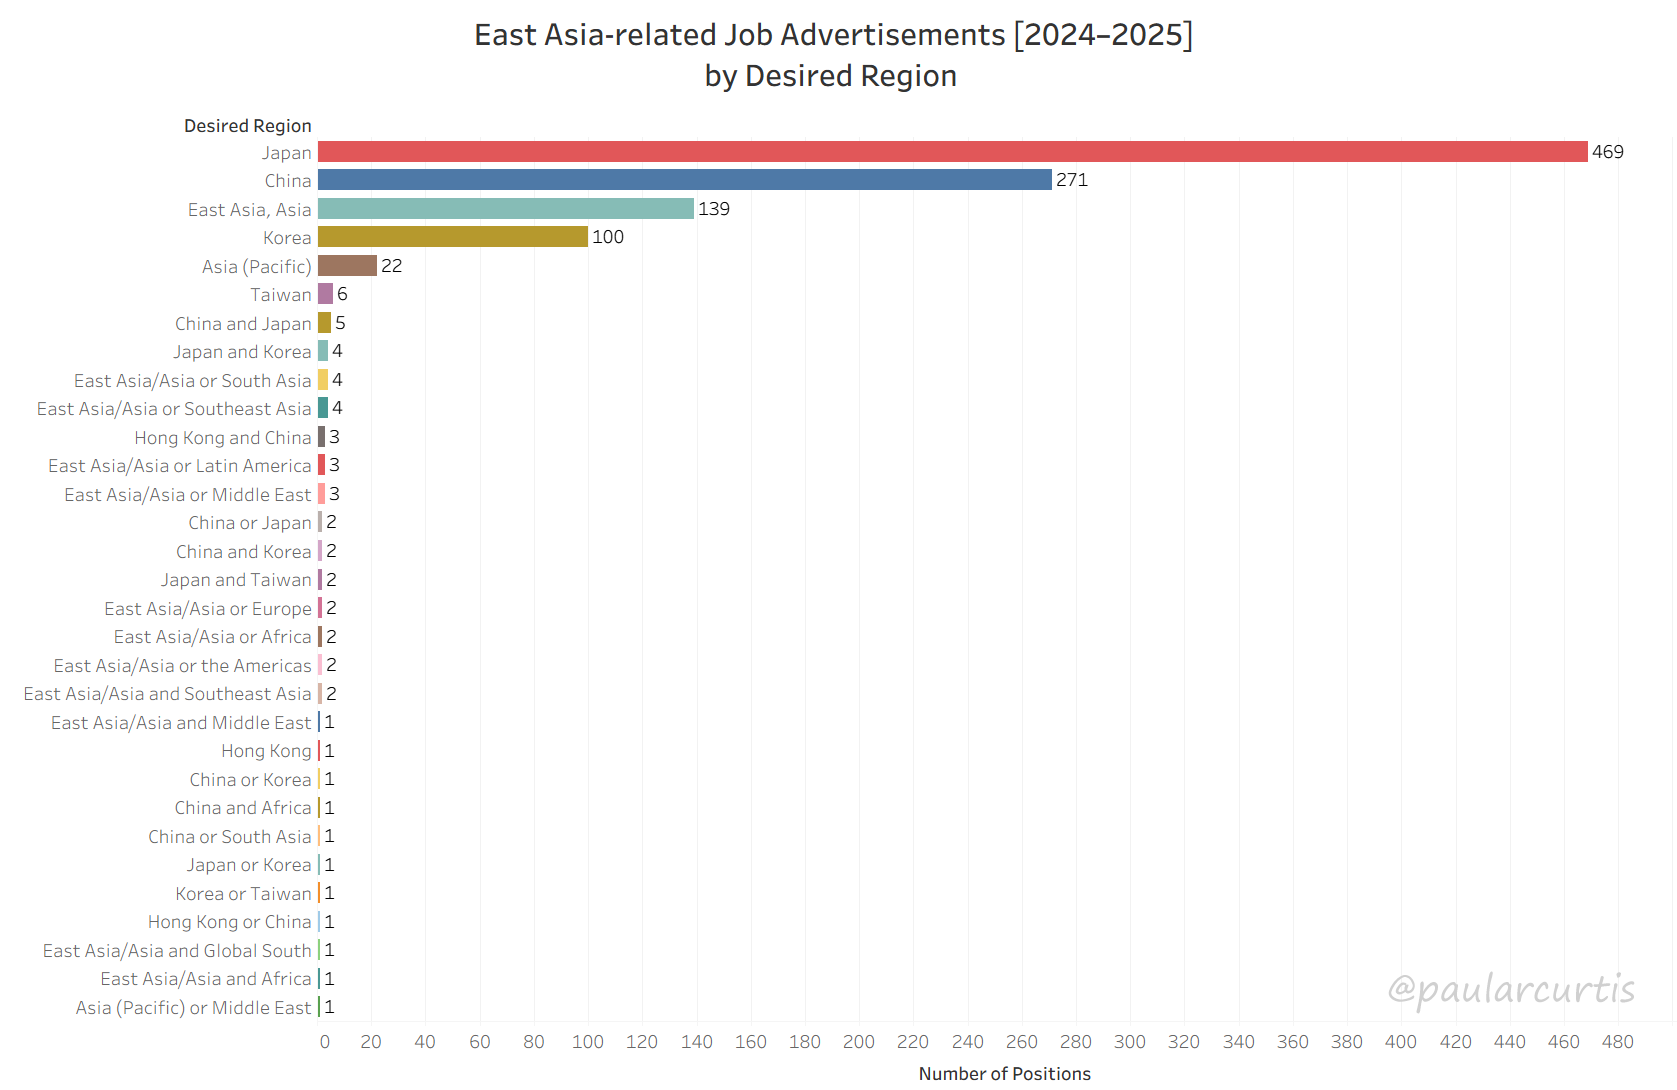
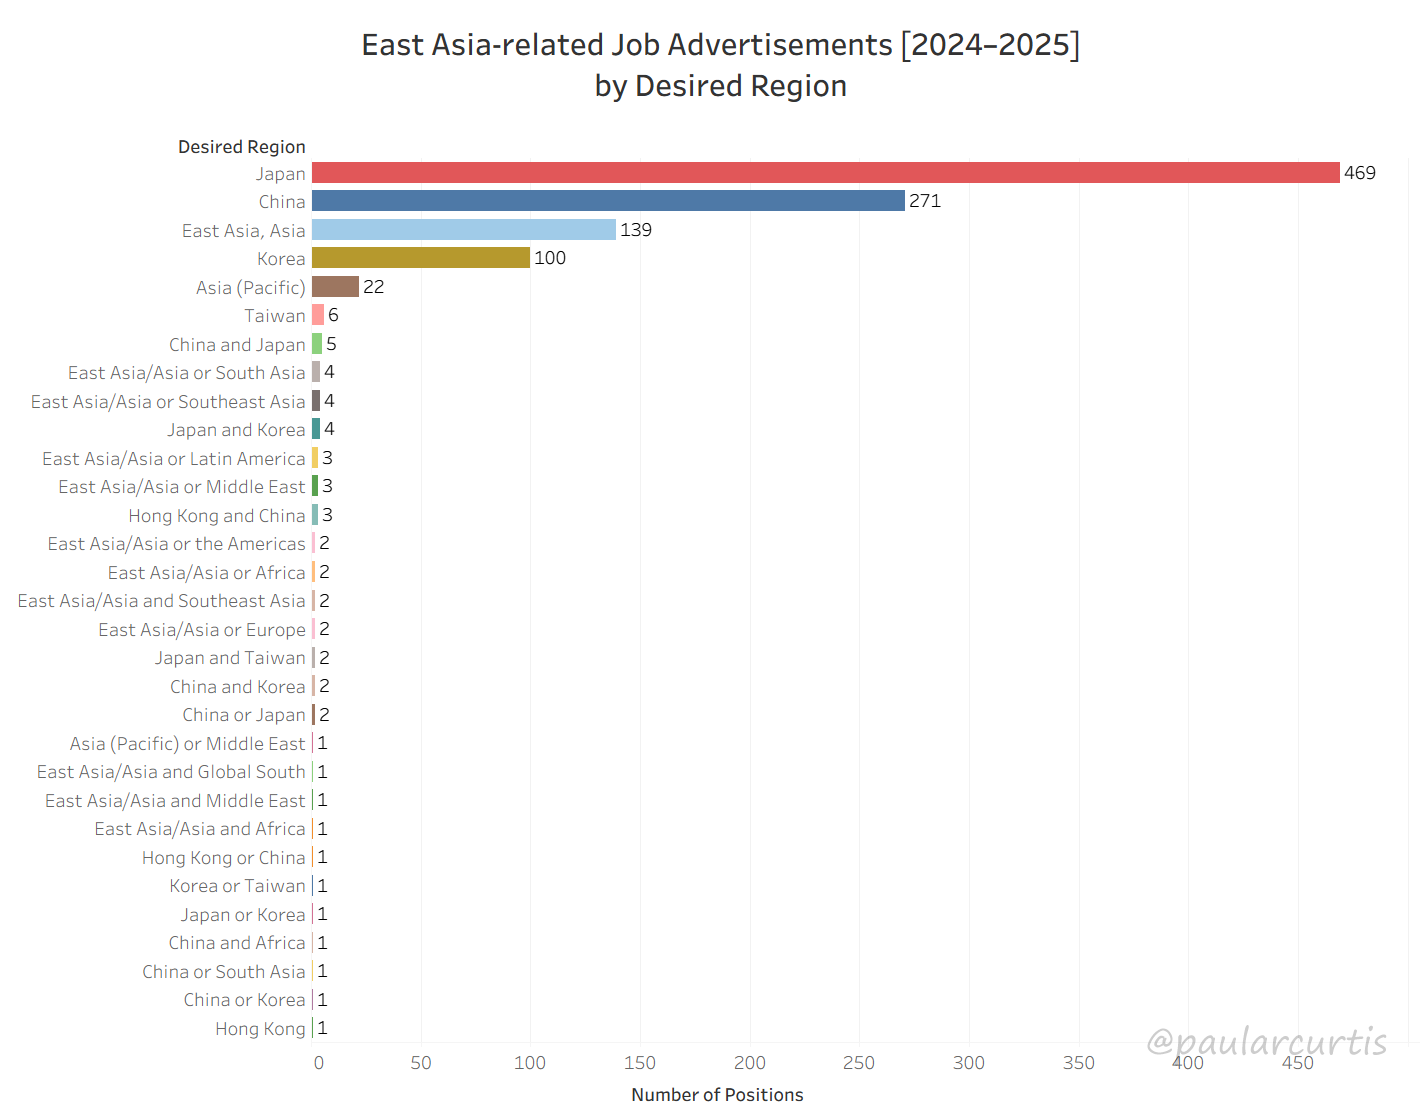
26-01-20
minor corrections

diff --git a/projects/jobdata.md b/projects/jobdata.md
@@ -44,7 +44,7 @@ Data collection for the 2022-2023 cycle was supported by the Association for Asi
         </tr>
           <tr>
         <td class="text-center">2024-2025</td>
-        <td class="text-center">[forthcoming]</td>
+        <td class="text-center"><a href="/projects/jobs2025/">Link</a></td>
         <td>Data collection from approximately June 2024 to July 2025.</td>
       <td class="text-center"><a href="/projects/jobtable2025/">Link</a></td>
         </tr>
